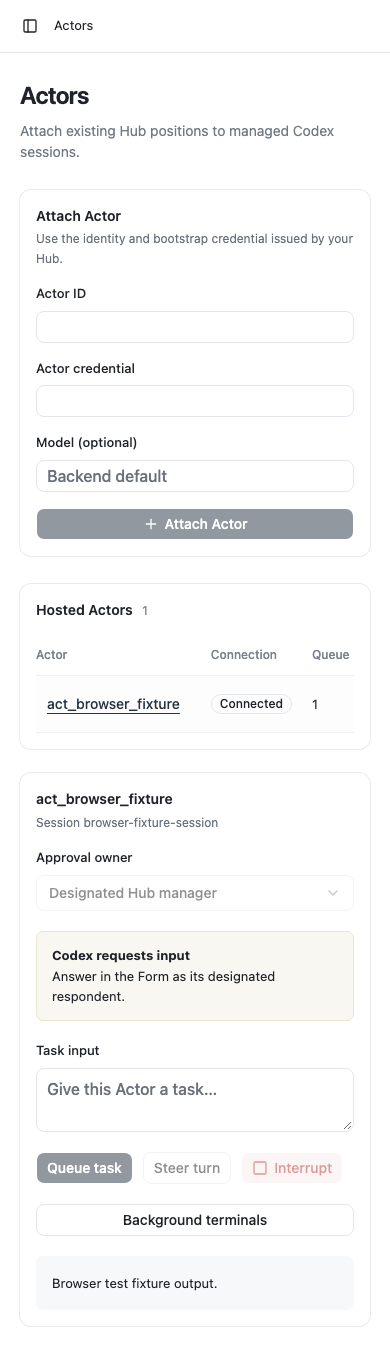
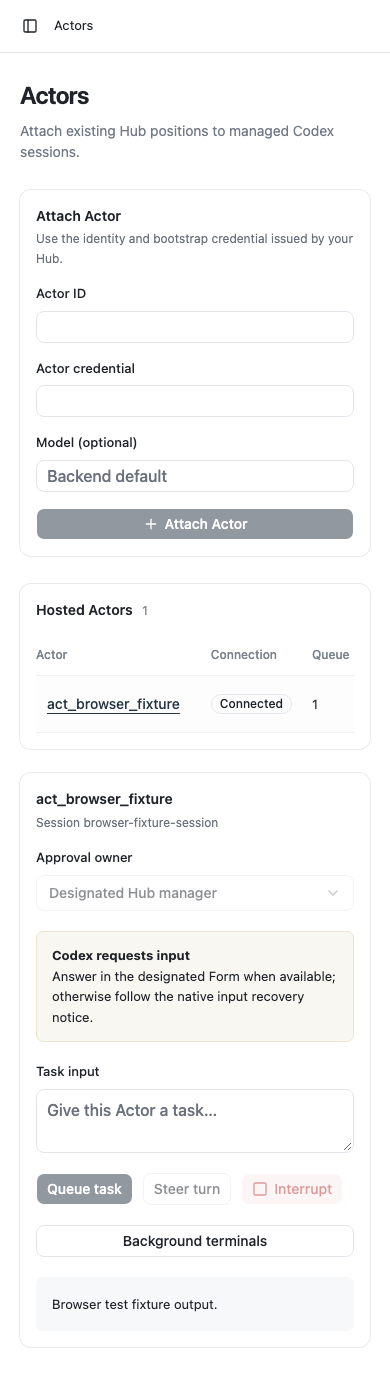
Synchronize validation checks and clarify native input recovery

diff --git a/test/native-input.test.ts b/test/native-input.test.ts
@@ -440,16 +440,30 @@ test("ordinary MCP response must pass native constraints before any answer attem
   });
   assert.equal(mcpRequest(params).valid, true);
   const release = deferred<void>(),
-    requested = deferred<string>();
-  t.after(() => release.resolve());
+    requested = deferred<string>(),
+    managerReached = deferred<void>(),
+    managerRelease = deferred<void>(),
+    managerObserved = deferred<void>();
+  t.after(() => {
+    release.resolve();
+    managerRelease.resolve();
+  });
   const f = await nativeFormFixture(t),
     call = f.session.call.bind(f.session);
+  let submitted = false;
   f.session.call = async (name, args, timeout) => {
     if (name === f.session.alias("hub:forms", "form_get")) {
       requested.resolve(String(args.formID));
       await release.promise;
     }
-    return call(name, args, timeout);
+    const rechecking = submitted && name === f.session.alias("hub:team", "team");
+    if (rechecking) {
+      managerReached.resolve();
+      await managerRelease.promise;
+    }
+    const result = await call(name, args, timeout);
+    if (rechecking) setImmediate(() => managerObserved.resolve());
+    return result;
   };
   f.event("mcpServer/elicitation/request", params, "fixture-request");
   const formID = await requested.promise;
@@ -462,8 +476,16 @@ test("ordinary MCP response must pass native constraints before any answer attem
     answers: { [form.fields[0].name]: "1" },
   });
   assert.ok(answered.state === "done");
+  submitted = true;
   release.resolve();
-  for (let n = 0; n < 100 && !f.actor.lastError; n++) await new Promise(setImmediate);
+  await managerReached.promise;
+  assert.equal(f.answers.length, 0);
+  assert.equal(
+    Object.values(f.bootstrap.approvals ?? {}).some((b) => b.answerAttempt),
+    false,
+  );
+  managerRelease.resolve();
+  await managerObserved.promise;
   assert.match(f.actor.lastError ?? "", /Revise the Form response/);
   assert.equal(f.answers.length, 0);
   assert.equal(

diff --git a/web/e2e/console.spec.ts b/web/e2e/console.spec.ts
@@ -198,7 +198,11 @@ test("operator controls use actor-scoped API routes and separate interrupt from 
   await page.getByRole("button", { name: "Actors", exact: true }).click();
   await page.keyboard.press("Escape");
   await page.getByRole("button", { name: bootstrap.actorId, exact: true }).click();
-  await expect(page.getByText(/the Form as its designated respondent/)).toBeVisible();
+  await expect(
+    page.getByText(
+      /the designated Form when available; otherwise follow the native input recovery notice/,
+    ),
+  ).toBeVisible();
   await screenshot(page, "mobile-native-form-fixture");
 });
 test("mobile navigation and setup remain reachable without clipping", async ({ page }) => {

diff --git a/web/src/views/index.tsx b/web/src/views/index.tsx
@@ -407,7 +407,7 @@ function ActorsView(p: ActorsFeature) {
                     Answer in{" "}
                     {actor.approvalAuthority === "desktop"
                       ? "Codex Desktop"
-                      : "the Form as its designated respondent"}
+                      : "the designated Form when available; otherwise follow the native input recovery notice"}
                     .
                   </p>
                 </div>
